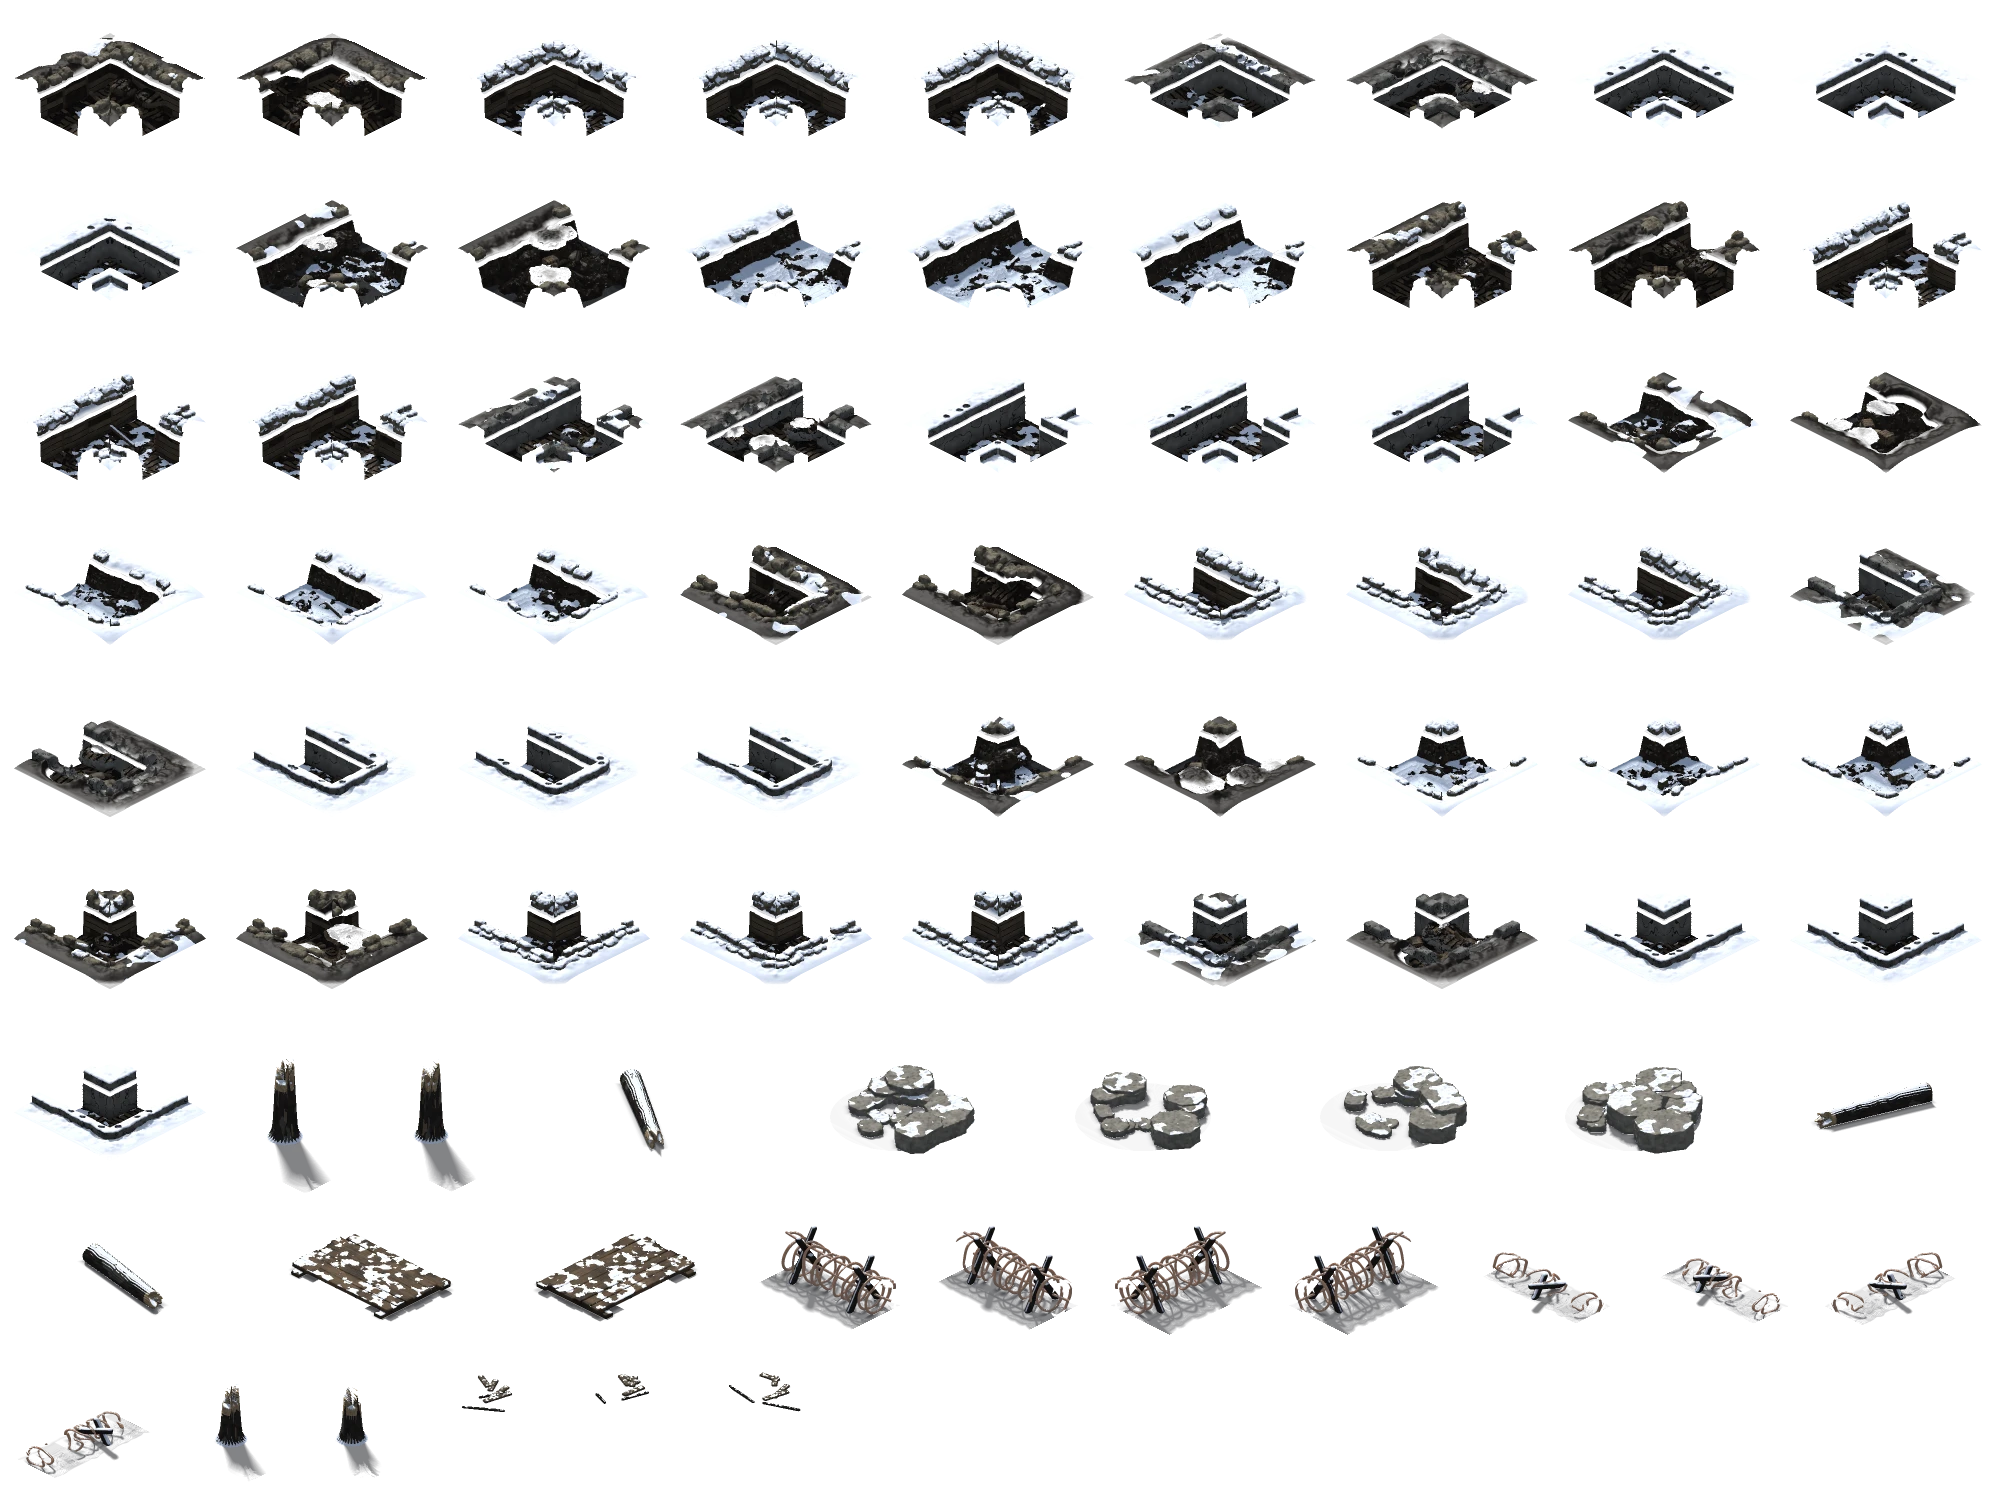
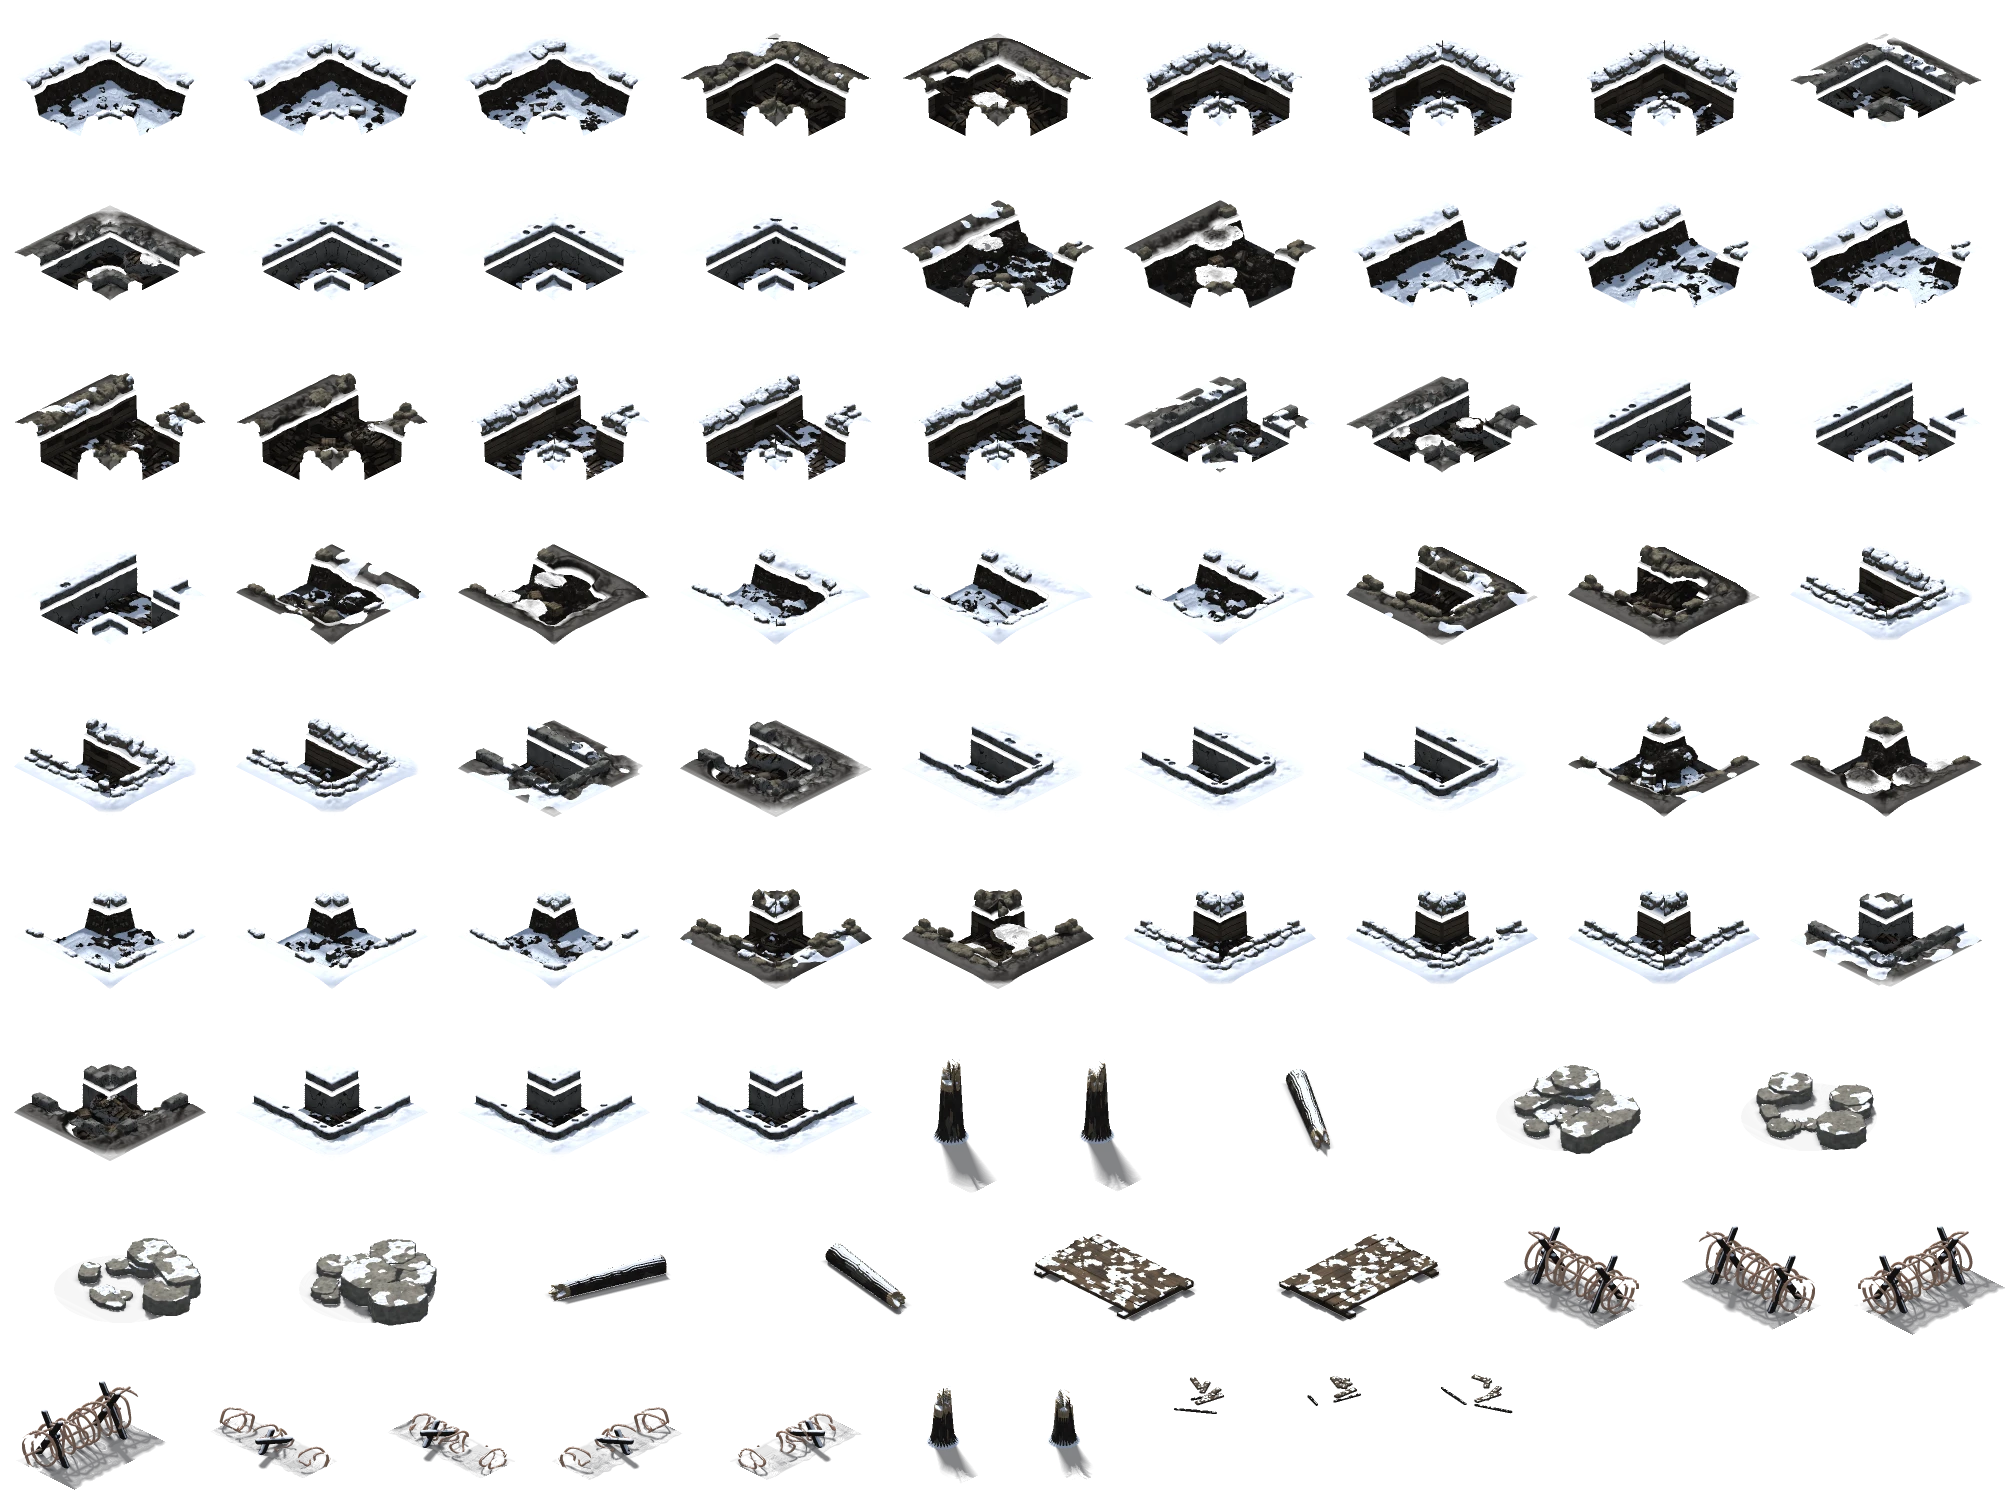
Level 3: a birch forest behind the Russian line, trees of every size
The ground behind the Russian front is birch forest: thick in places, thinning to clearings, copses and
glades towards the trenches and over the wheat; about 550 trees. Birches are drawn at sizes from saplings
to old trees (half to one and a half times), mirrored at random, in six variants.

Claude-Session: https://claude.ai/code/session_01QRLYjet5i3xPK5hPmw42NL

diff --git a/src/render.js b/src/render.js
@@ -1251,8 +1251,11 @@ export class Renderer {
       const h = hash(t.x * 2.3, t.y * 5.1);
       const c = iso(t.x + 0.3 + t.shade * 0.4, t.y + 0.3 + h * 0.4);
       if (t.decor === 'tree' || t.decor === 'stump' || t.decor === 'birch') this.longShadow(ctx, c.x, c.y, t.decor === 'stump' ? 0.8 : 2.6);
-      const name = t.decor === 'stump' ? `stump${Math.floor(h * 4) % 4}` : t.decor === 'tree' ? `tree${Math.floor(h * 2) % 2}` : t.decor === 'birch' ? `birch${Math.floor(h * 4) % 4}` : `log${Math.floor(h * 3) % 3}`;
-      if (this.drawProp(ctx, name + snow, c.x, c.y)) return;
+      const name = t.decor === 'stump' ? `stump${Math.floor(h * 4) % 4}` : t.decor === 'tree' ? `tree${Math.floor(h * 2) % 2}` : t.decor === 'birch' ? `birch${Math.floor(h * 6) % 6}` : `log${Math.floor(h * 3) % 3}`;
+      if (t.decor === 'birch') { // birches of every size, from saplings to old trees
+        const k = 0.5 + hash(t.y * 1.7, t.x * 0.9) ** 1.5 * 0.95;
+        if (this.drawFrame(ctx, this.propGroup(), name + snow, c.x, c.y, k, hash(t.x, t.y * 2.3) > 0.5)) return;
+      } else if (this.drawProp(ctx, name + snow, c.x, c.y)) return;
     }
     const S = this.S ?? 1;
     const h = hash(t.x * 2.3, t.y * 5.1);

diff --git a/src/campaign.js b/src/campaign.js
@@ -665,6 +665,16 @@ export const LEVELS = [
         }
       }
       for (const t of map.tiles) if (!t.off && !t.trench && !t.wire && !t.decor && t.ground !== 4 && !t.mud && churnAt(t) < 0.3 && rnd() < ((t.x - W / 2) * d < 0 ? 0.04 : 0.012)) t.decor = 'birch'; // scattered birches, many more on our side
+      // ---- a birch forest behind the Russian line: thick in places, thinning into clearings and copses
+      // towards the trenches; trees of every age
+      const busy = new Set(state.units.map((u) => Math.floor(u.y) * W + Math.floor(u.x)));
+      for (const t of map.tiles) {
+        if (t.off || t.trench || t.wire || t.decor || busy.has(t.y * W + t.x) || f[t.y] < 0) continue;
+        const behind = (f[t.y] - t.x) * d; // tiles behind our front line
+        if (behind < 3) continue;
+        const dense = noise(2, t.x + 17, t.y + 5, 0.21) + Math.min(0.35, (behind - 3) * 0.04) - (t.ground === 4 ? 0.25 : 0);
+        if (rnd() < (dense > 0.62 ? 0.8 : dense > 0.48 ? 0.35 : 0.08)) { t.decor = 'birch'; t.mud = 0; }
+      }
       // ---- three headquarters: the centre one and one on each flank, behind the support line
       const hq = map.hq[ENEMY];
       hq.posts = [];

diff --git a/index.html b/index.html
@@ -12,7 +12,7 @@
       "./src/ai.js": "./src/ai.js?v=3dae52f0",
       "./src/atmosphere.js": "./src/atmosphere.js?v=1e92f7e8",
       "./src/audio.js": "./src/audio.js?v=bbae5c50",
-      "./src/campaign.js": "./src/campaign.js?v=654ca59b",
+      "./src/campaign.js": "./src/campaign.js?v=f108eeae",
       "./src/config.js": "./src/config.js?v=82ca61d3",
       "./src/game.js": "./src/game.js?v=5a970c90",
       "./src/main.js": "./src/main.js?v=069fe910",
@@ -20,7 +20,7 @@
       "./src/model-view.js": "./src/model-view.js?v=214a5b12",
       "./src/path.js": "./src/path.js?v=23c490f7",
       "./src/relief.js": "./src/relief.js?v=2441f819",
-      "./src/render.js": "./src/render.js?v=d4b2bd4e",
+      "./src/render.js": "./src/render.js?v=14a19d99",
       "./src/save.js": "./src/save.js?v=d80c424b",
       "./src/tutorial.js": "./src/tutorial.js?v=134dce8b",
       "./src/ui.js": "./src/ui.js?v=4f9de07b",
